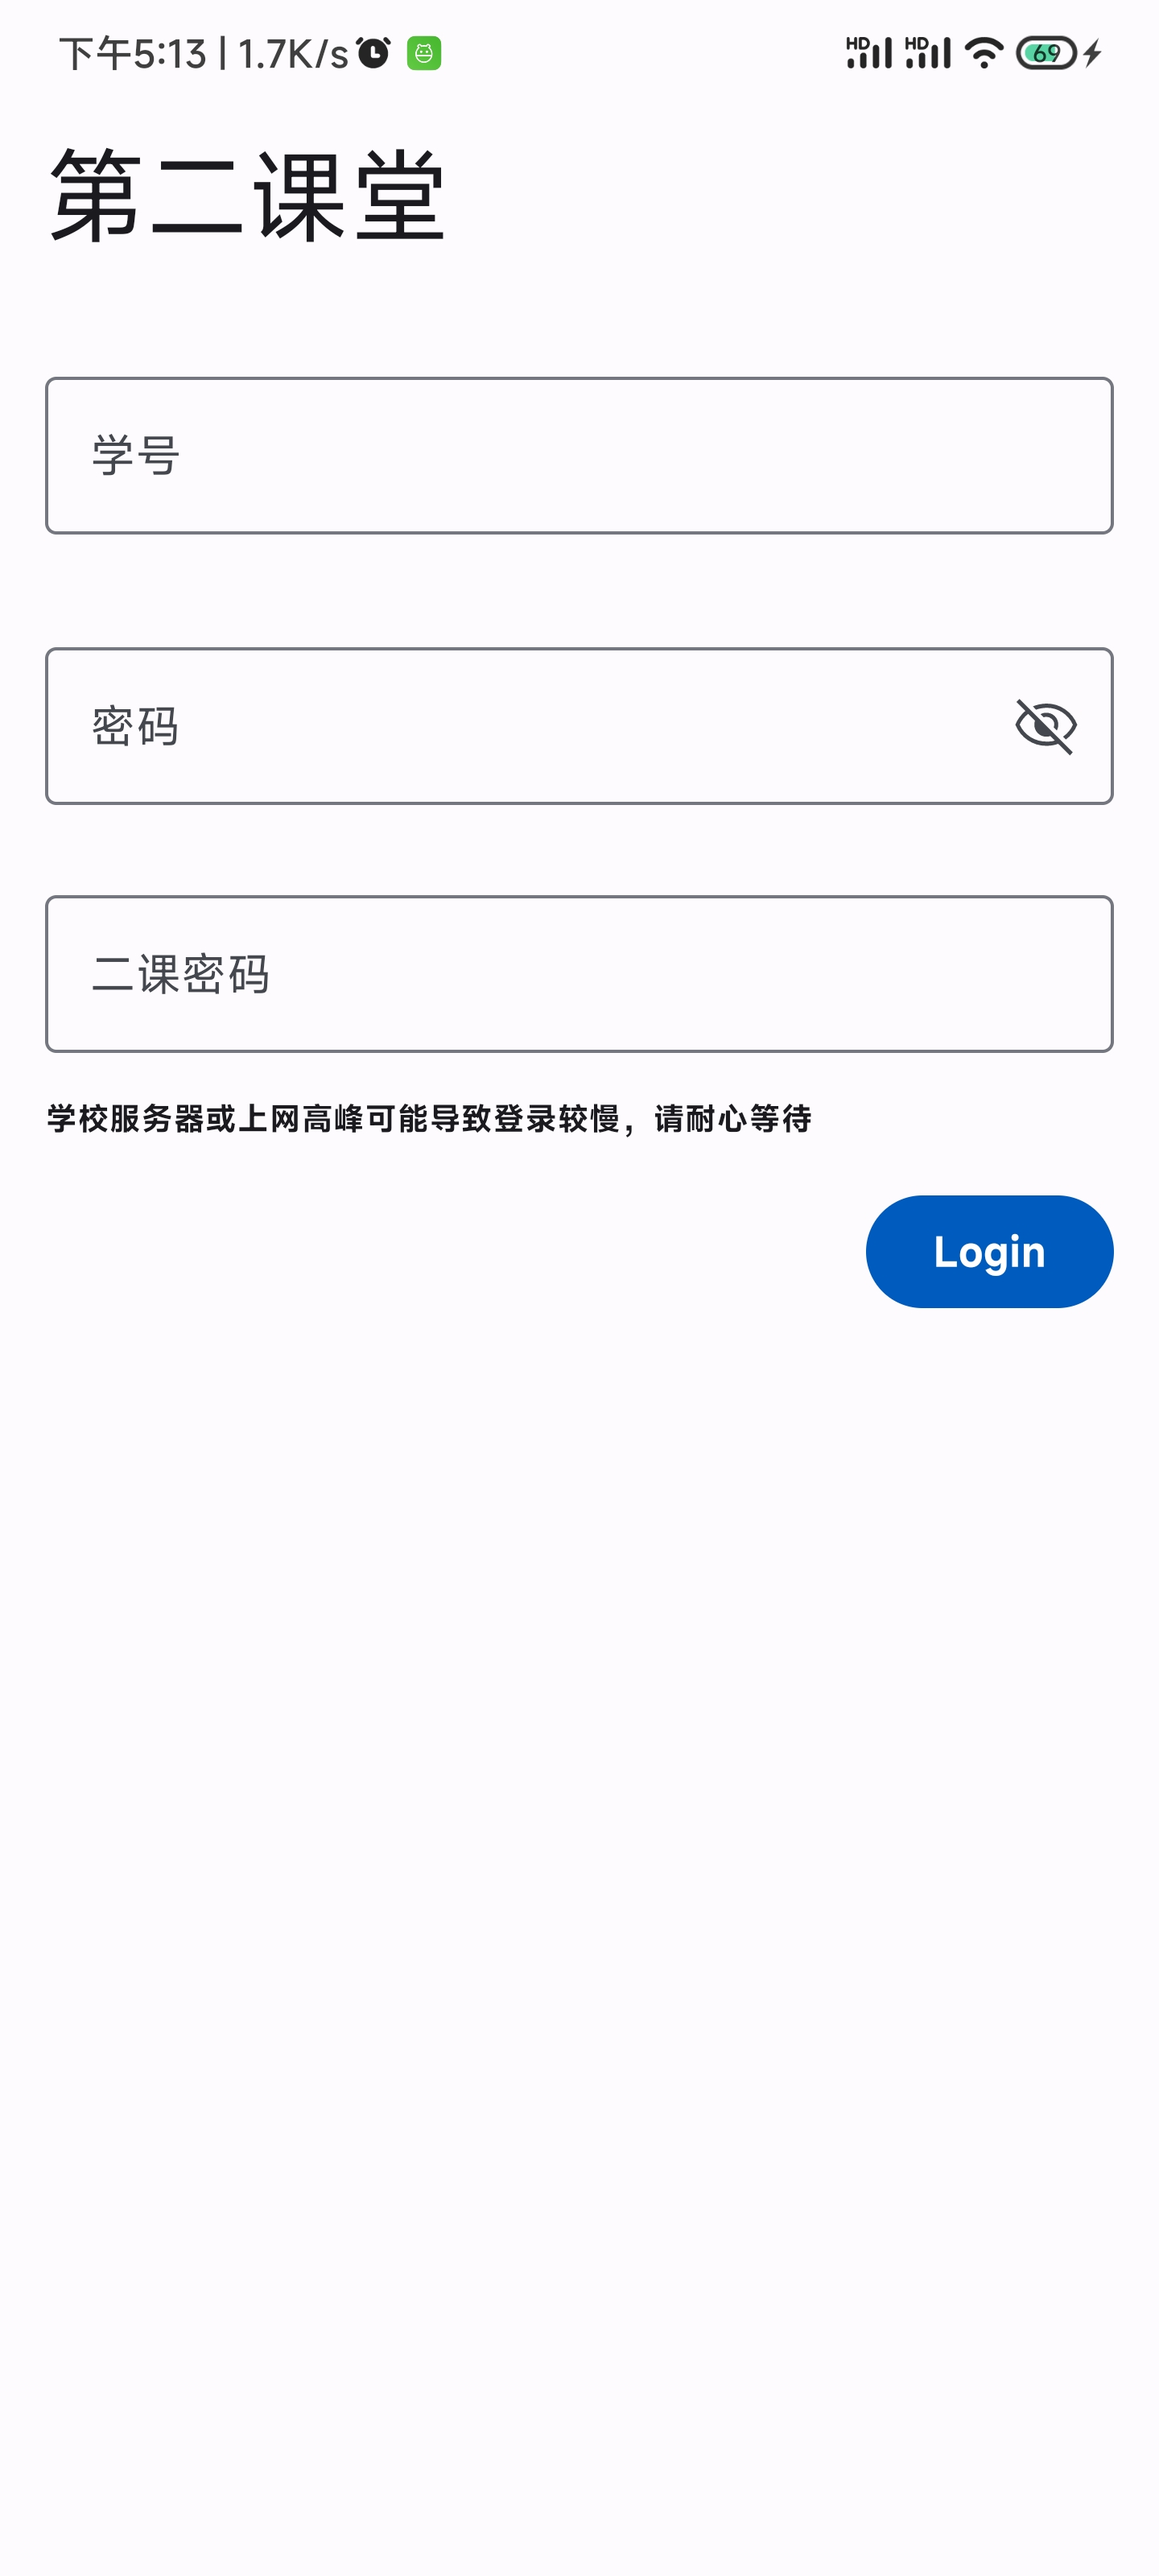
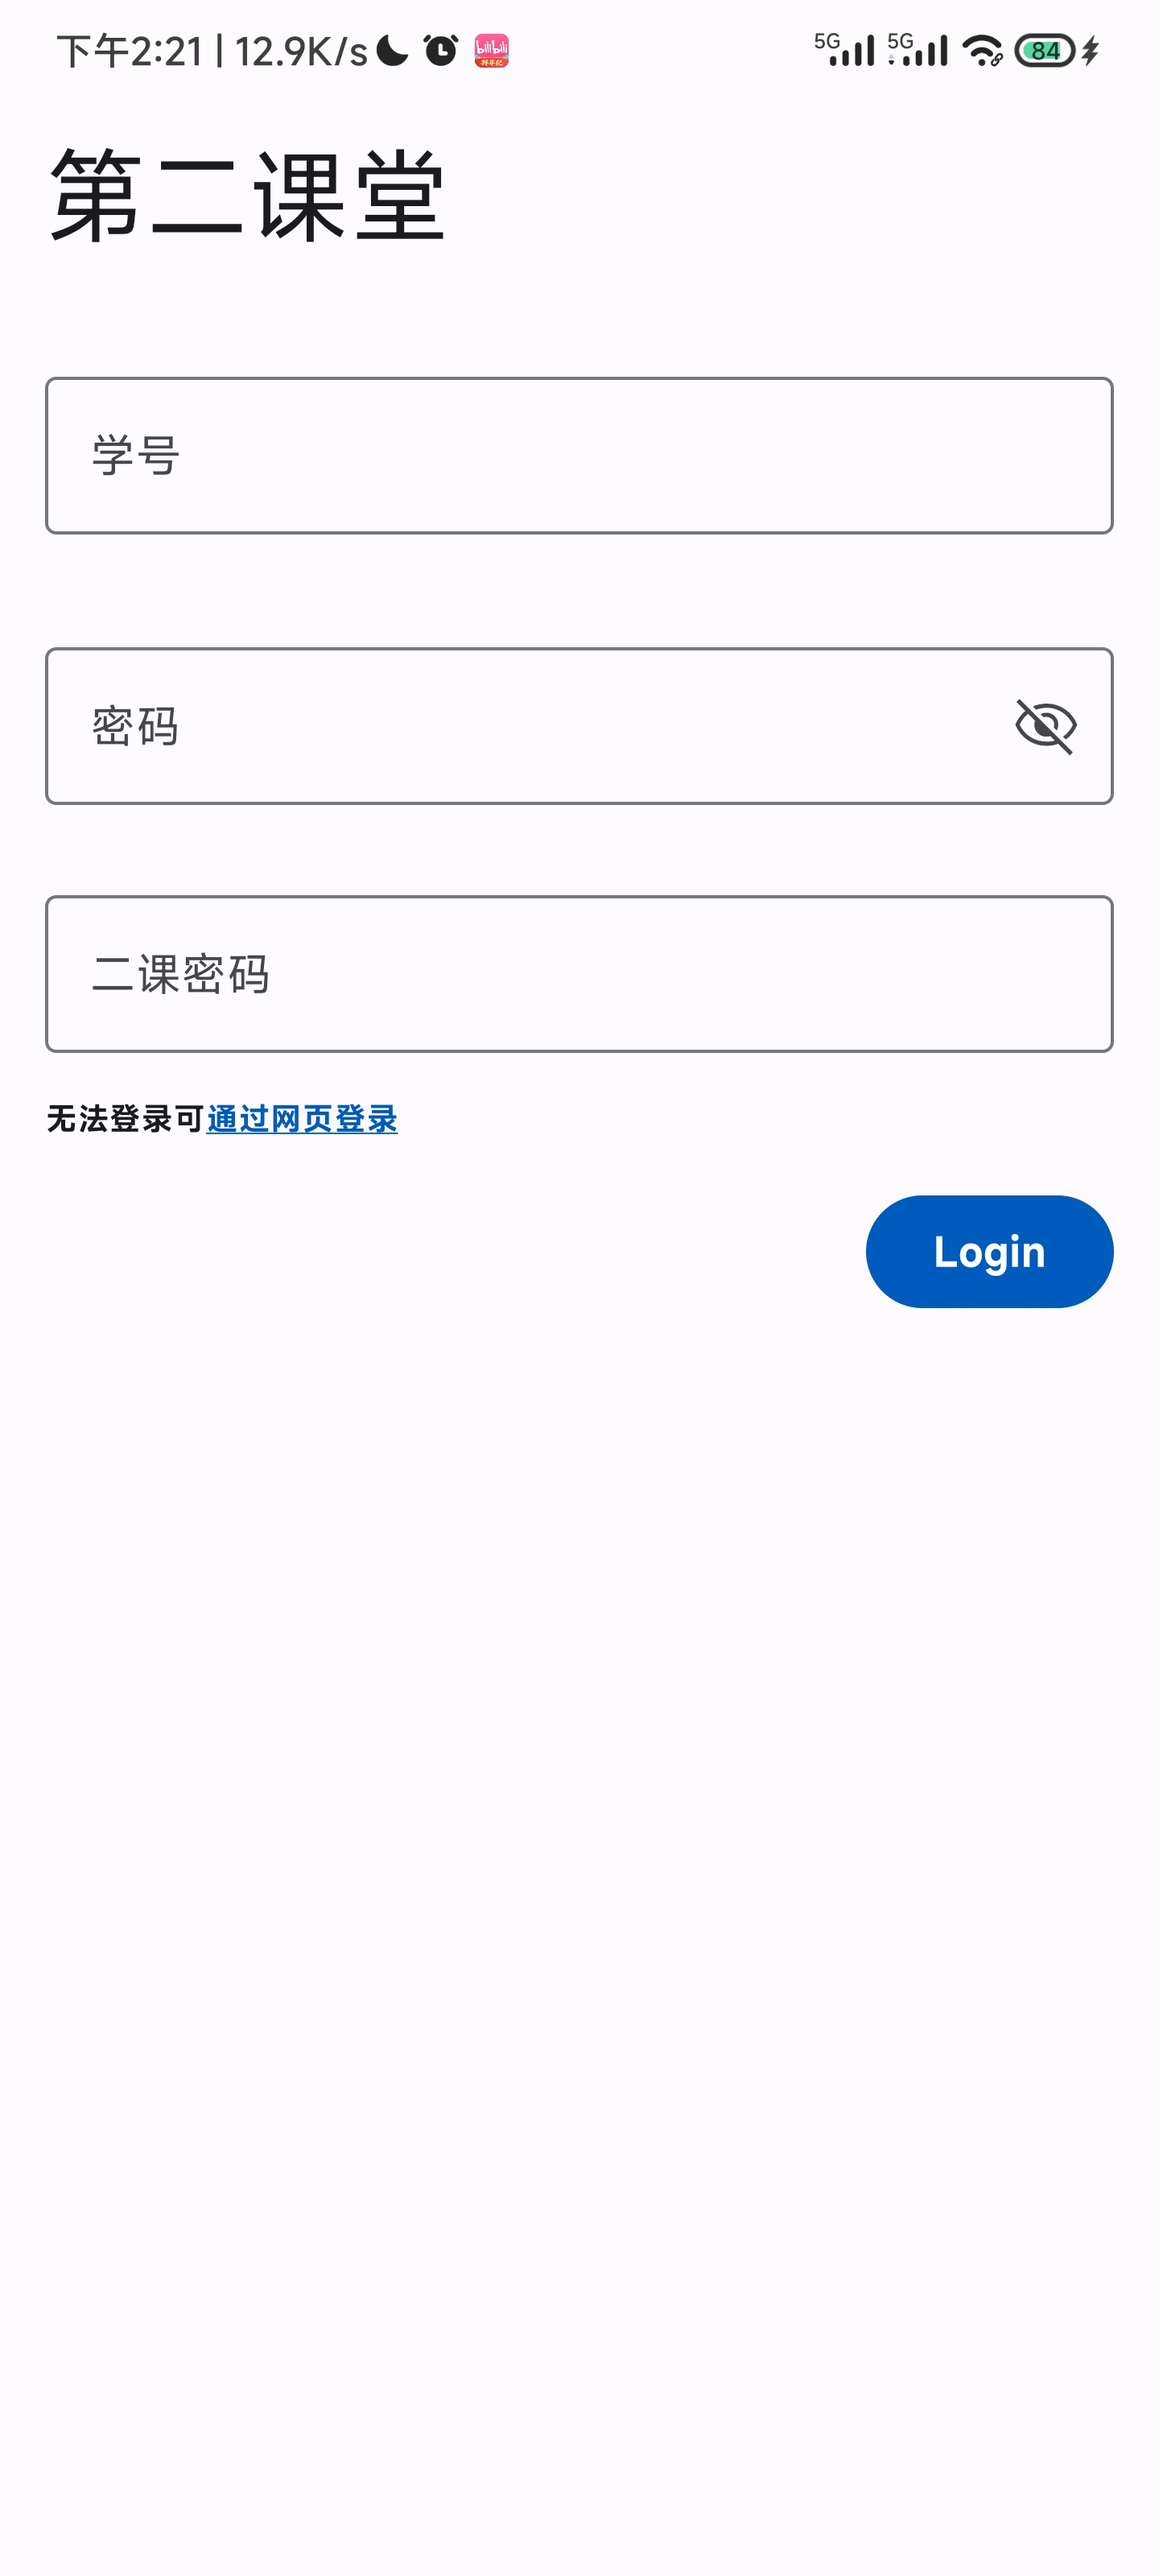
update README.md

diff --git a/README.md b/README.md
@@ -11,13 +11,11 @@ cuit第二课堂安卓客户端
 - 任意时间**签到**并可选择签到/签退时间  
 - 生成活动的签到签退链接
 
-## 注意
-- 在app上登录后若再通过其他方式外网登录第二课堂，会导致(几分钟内)app登录失败  
-- 部分用户或活动有概率id获取不全  
+## 注意事项
+- 若默认登录方式失败: 选择`通过网页(WebView)登录`([pr](https://github.com/thriic/SecondClass/pull/4))  
+- 网络访问较慢: 选择人少的时间或连接学校wifi  
 - 请根据二课审核机制合理选择签到签退时间  
 
-## 测试环境
-Redmi K50 Android13 校外网
 
 ## 使用截图
 | ![image](ScreenShots/login.jpg) | ![image](ScreenShots/page.jpg)  | ![image](ScreenShots/info.jpg)  | ![image](ScreenShots/search.jpg) | ![image](ScreenShots/user.jpg) |
